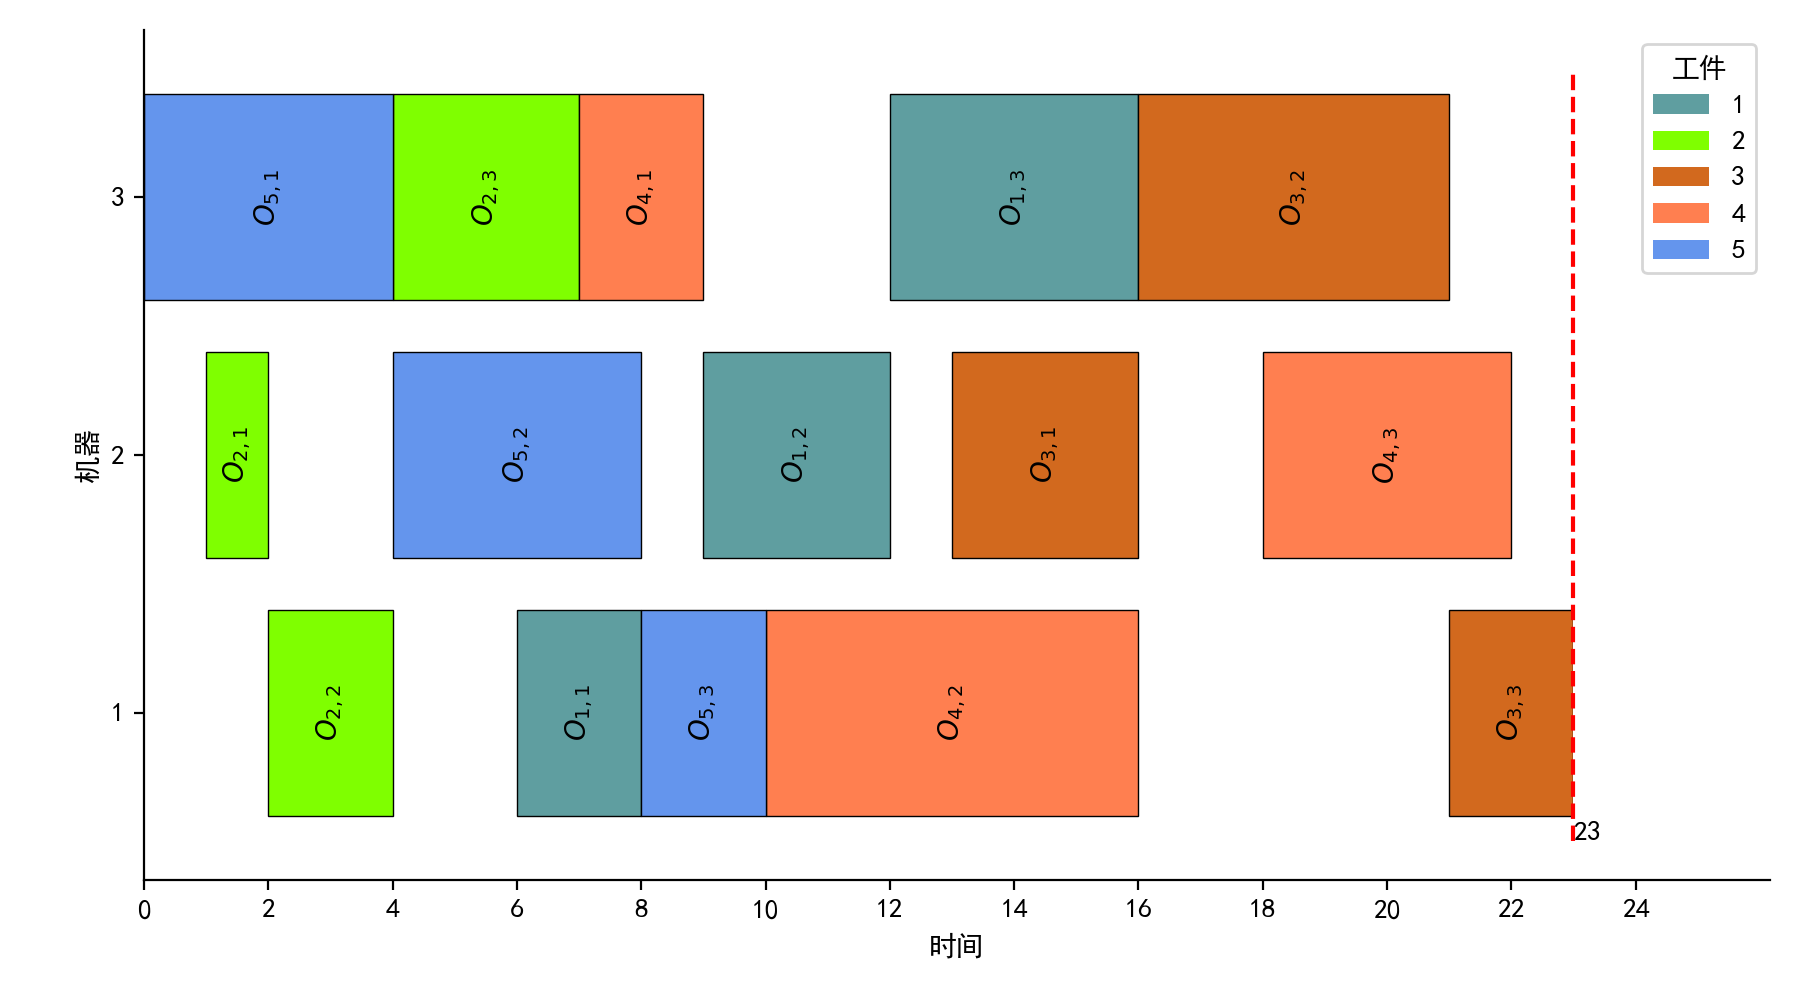
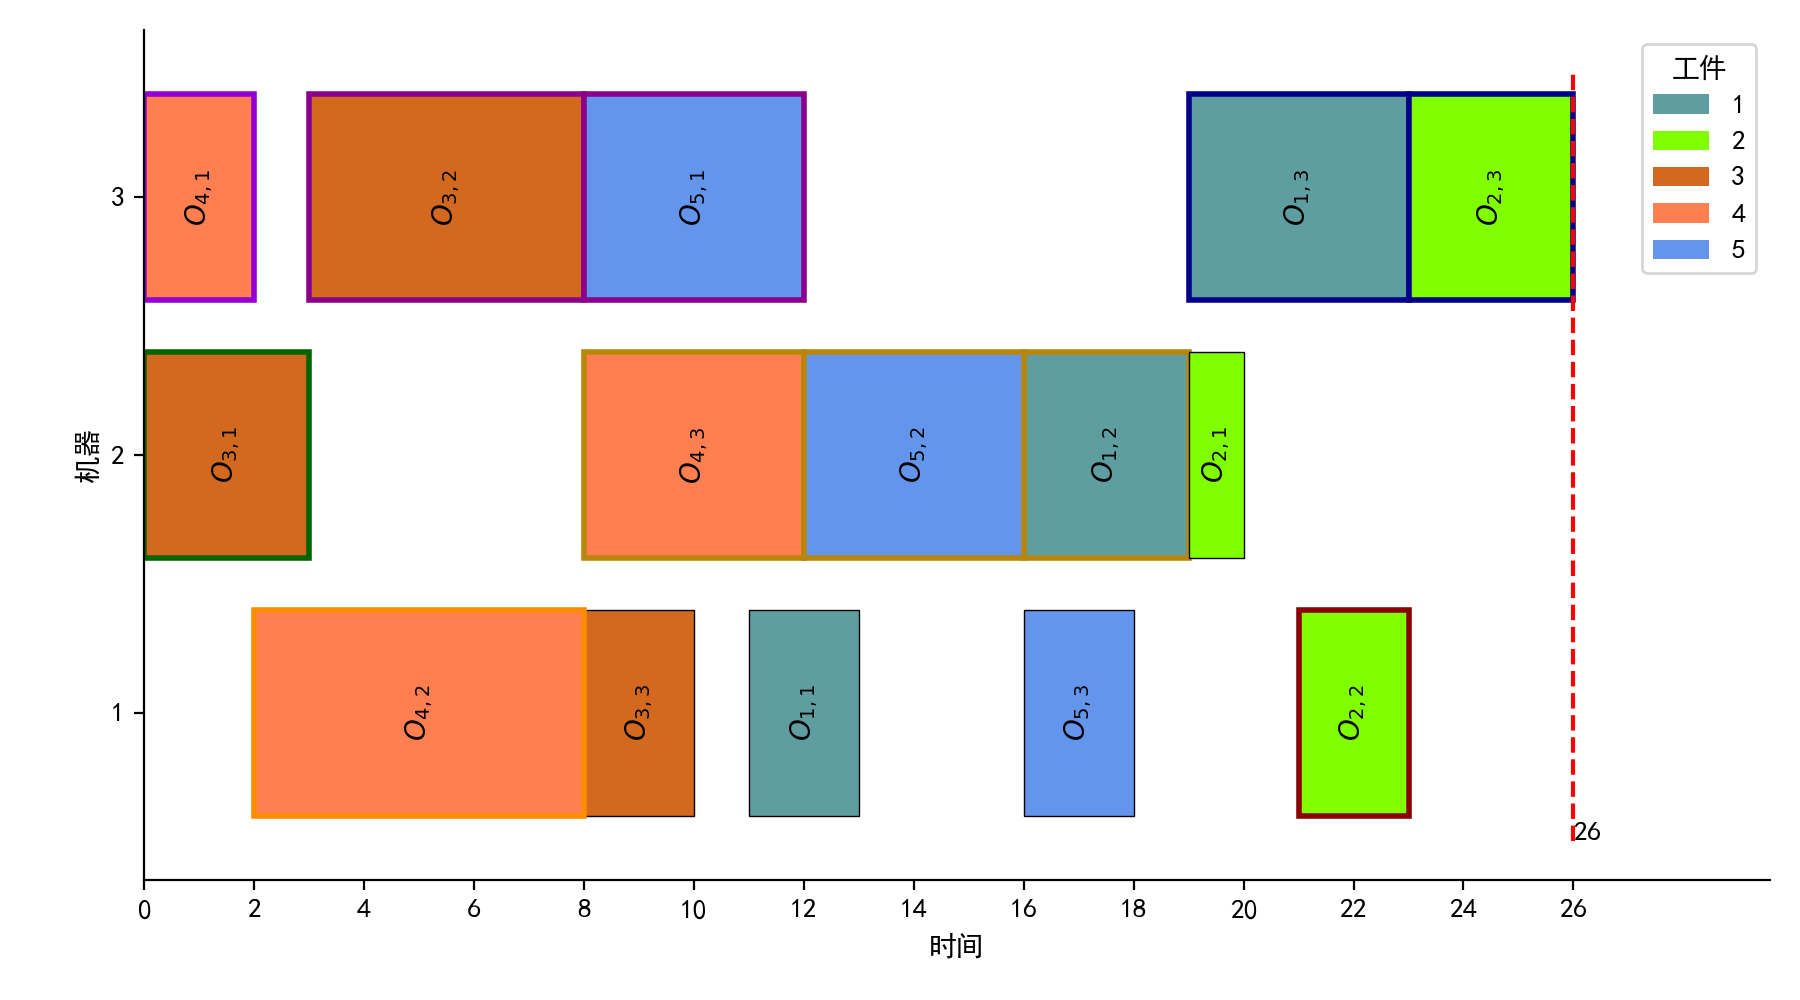
Add file via upload.

diff --git a/src/info.py b/src/info.py
@@ -21,8 +21,10 @@ COLORS_REMOVE.extend([i for i in COLORS if i.startswith('dark')])
 COLORS_REMOVE.extend([i for i in COLORS if i.startswith('light')])
 [COLORS.remove(i) for i in COLORS_REMOVE]
 LEN_COLORS = len(COLORS)
-[COLORS.pop(j - i) for i, j in enumerate(range(11))]
+[COLORS.pop(j - i) for i, j in enumerate(range(12))]
 [COLORS.pop(j - i) for i, j in enumerate([6, ])]
+BLOCK_COLORS = ["darkred", "darkorange", "darkgoldenrod", "darkgreen", "darkblue", "darkmagenta", "darkviolet"]
+LEN_BLOCK_COLORS = len(BLOCK_COLORS)
 plt.rcParams['font.sans-serif'] = ['SimHei']
 plt.rcParams['axes.unicode_minus'] = False
 
@@ -52,7 +54,7 @@ class GanttChart:
                     self.data.loc[:, "Machine"], self.data.loc[:, "End"], self.data.loc[:, "Duration"])):
                 job, operation, machine = job - 1, operation - 1, machine - 1
                 for i, val in enumerate([start, operation, job, machine, end]):
-                    self.schedule.start_number_jme[i] = np.append(self.schedule.start_number_jme[i], val)
+                    self.schedule.sjike[i] = np.append(self.schedule.sjike[i], val)
                 self.schedule.job[job].add_task(machine=machine, duration=duration, name=operation, index=operation)
                 self.schedule.job[job].task[operation].start = start
                 self.schedule.job[job].task[operation].end = end
@@ -62,7 +64,7 @@ class GanttChart:
                     self.schedule.machine[machine].end = end
 
     def key_route(self, index):
-        a = np.argwhere(self.schedule.start_number_jme[4] == self.schedule.makespan)[:, 0]
+        a = np.argwhere(self.schedule.sjike[4] == self.schedule.makespan)[:, 0]
         if a.shape[0] > 1:
             b = np.random.choice(a, 1, replace=False)[0]
         else:
@@ -70,16 +72,16 @@ class GanttChart:
         if b not in index:
             index.append(b)
         while True:
-            c = self.schedule.start_number_jme[0][b]
-            d = self.schedule.start_number_jme[2][b]
-            e = self.schedule.start_number_jme[3][b]
+            c = self.schedule.sjike[0][b]
+            d = self.schedule.sjike[2][b]
+            e = self.schedule.sjike[3][b]
             try:
-                tmp = self.schedule.start_number_jme[4][self.schedule.job[d].index_list]
+                tmp = self.schedule.sjike[4][self.schedule.job[d].index_list]
                 f = self.schedule.job[d].index_list[np.argwhere(tmp == c)[:, 0][0]]
             except IndexError:
                 f = None
             try:
-                tmp = self.schedule.start_number_jme[4][self.schedule.machine[e].index_list]
+                tmp = self.schedule.sjike[4][self.schedule.machine[e].index_list]
                 g = self.schedule.machine[e].index_list[np.argwhere(tmp == c)[:, 0][0]]
             except IndexError:
                 g = None
@@ -104,27 +106,27 @@ class GanttChart:
         index = []
         for i in range(n):
             index = self.key_route(index)
-        index_start = self.schedule.start_number_jme[0][index]
+        index_start = self.schedule.sjike[0][index]
         index = [index[i] for i in np.argsort(-index_start)]
-        a = self.schedule.start_number_jme[3][index]
+        a = self.schedule.sjike[3][index]
         b = set(a)
         c = 0
         block = {}
         for i in b:
             block[c] = np.array([], dtype=int)
             d = np.argwhere(a == i)[:, 0]
-            start = self.schedule.start_number_jme[0][[index[j] for j in d]].tolist()
+            start = self.schedule.sjike[0][[index[j] for j in d]].tolist()
             for cur, j in enumerate(d):
                 g = index[j]
                 try:
-                    end = self.schedule.start_number_jme[4][g]
+                    end = self.schedule.sjike[4][g]
                     start.index(end)
                 except ValueError:
                     if cur != 0:
                         c += 1
                         block[c] = np.array([], dtype=int)
-                self.schedule.job[self.schedule.start_number_jme[2][g]].task[
-                    self.schedule.start_number_jme[1][g]].block = c
+                self.schedule.job[self.schedule.sjike[2][g]].task[
+                    self.schedule.sjike[1][g]].block = c
                 block[c] = np.append(block[c], g)
             c += 1
         return block
@@ -134,6 +136,7 @@ class GanttChart:
                         with_operation=True, with_start_end=False, show=False):
         if random_colors:
             random.shuffle(COLORS)
+        self.key_block()
         plt.figure(figsize=[fig_width, fig_height])
         plt.yticks(range([self.schedule.m, self.schedule.n][y_based]),
                    range(1, [self.schedule.m, self.schedule.n][y_based] + 1))
@@ -151,10 +154,13 @@ class GanttChart:
                 y = y_values[y_based]
                 width = task.end - task.start
                 left = [task.start, self.schedule.makespan - task.end][self.schedule.direction]
+                edgecolor, linewidth = "black", 0.5
+                if task.block is not None:
+                    edgecolor, linewidth = BLOCK_COLORS[task.block % LEN_BLOCK_COLORS], 2
                 plt.barh(
                     y=y, width=width,
-                    left=left, color=COLORS[(y_values[y_based - 1] + 1) % LEN_COLORS],
-                    edgecolor="black", linewidth=0.5,
+                    left=left, color=COLORS[y_values[y_based - 1] % LEN_COLORS],
+                    edgecolor=edgecolor, linewidth=linewidth,
                 )
                 if with_operation:
                     if y_based == 0:
@@ -184,7 +190,7 @@ class GanttChart:
                         )
         if y_based == 0:
             for job in self.schedule.job.values():
-                plt.barh(0, 0, color=COLORS[(job.index + 1) % LEN_COLORS], label=job.index + 1)
+                plt.barh(0, 0, color=COLORS[job.index % LEN_COLORS], label=job.index + 1)
             plt.barh(y=0, width=self.schedule.makespan / scale_more, left=self.schedule.makespan, color="white")
             if lang == 0:
                 title = r"${Job}$"
@@ -193,7 +199,7 @@ class GanttChart:
             plt.legend(loc="best", title=title)
         if y_based == 1:
             for machine in self.schedule.machine.values():
-                plt.barh(0, 0, color=COLORS[(machine.index + 1) % LEN_COLORS], label=machine.index + 1)
+                plt.barh(0, 0, color=COLORS[machine.index % LEN_COLORS], label=machine.index + 1)
             plt.barh(y=0, width=self.schedule.makespan / scale_more, left=self.schedule.makespan, color="white")
             if lang == 0:
                 title = r"${Machine}$"
@@ -295,14 +301,14 @@ class Info(GanttChart):
             std_direction = Utils.direction()
         if self.schedule.direction == 0:
             if std_direction == 0:
-                index = np.argsort(self.schedule.start_number_jme[0])
+                index = np.argsort(self.schedule.sjike[0])
             else:
-                index = np.argsort(-self.schedule.start_number_jme[0])[::-1]
+                index = np.argsort(-self.schedule.sjike[0])[::-1]
         else:
             if std_direction == 0:
-                index = np.argsort(self.schedule.start_number_jme[0])[::-1]
+                index = np.argsort(self.schedule.sjike[0])[::-1]
             else:
-                index = np.argsort(-self.schedule.start_number_jme[0])
+                index = np.argsort(-self.schedule.sjike[0])
         self.code = self.code[index]
         for i in self.schedule.job.keys():
             self.schedule.job[i].nd = 0
@@ -323,7 +329,7 @@ class Info(GanttChart):
                 self.schedule.job[i].index_list[j] = g
                 self.schedule.machine[k].index_list.append(g)
                 for u, v in enumerate([self.schedule.job[i].task[j].start, j, i, k, self.schedule.job[i].task[j].end]):
-                    self.schedule.start_number_jme[u][g] = v
+                    self.schedule.sjike[u][g] = v
                 self.schedule.job[i].nd += 1
         except KeyError:
             code = self.schedule.trans_random_key2operation_based(self.code)
@@ -340,7 +346,7 @@ class Info(GanttChart):
                 self.schedule.job[i].index_list[j] = g
                 self.schedule.machine[k].index_list.append(g)
                 for u, v in enumerate([self.schedule.job[i].task[j].start, j, i, k, self.schedule.job[i].task[j].end]):
-                    self.schedule.start_number_jme[u][g] = v
+                    self.schedule.sjike[u][g] = v
                 self.schedule.job[i].nd += 1
 
     def std_code_machine_based(self):
@@ -405,7 +411,7 @@ class Info(GanttChart):
         left_a, right_b = range(a), range(b + 1, self.schedule.length)
         left_b_a = np.hstack([right_b, left_a])
         middle1, middle2 = code1[r_a_b], code2[r_a_b]
-        number1, number2 = self.schedule.start_number_jme[1][r_a_b], info.schedule.start_number_jme[1][r_a_b]
+        number1, number2 = self.schedule.sjike[1][r_a_b], info.schedule.sjike[1][r_a_b]
         left1, left2 = code1[left_a], code2[left_a]
         right1, right2 = code1[right_b], code2[right_b]
         cycle1, cycle2 = np.hstack([right1, left1, middle1]), np.hstack([right2, left2, middle2])
@@ -432,8 +438,8 @@ class Info(GanttChart):
     def ga_crossover_sequence_pmx(self, info):
         code1 = deepcopy(self.code)
         code2 = deepcopy(info.code)
-        number1 = self.schedule.start_number_jme[1]
-        number2 = info.schedule.start_number_jme[1]
+        number1 = self.schedule.sjike[1]
+        number2 = info.schedule.sjike[1]
         a, b = np.random.choice(range(1, self.schedule.length - 1), 2, replace=False)
         if a > b:
             a, b = b, a
@@ -668,7 +674,7 @@ class Info(GanttChart):
             for g in j:
                 if np.random.random() < 0.5:
                     try:
-                        a, b = self.schedule.start_number_jme[2][g], self.schedule.start_number_jme[1][g]
+                        a, b = self.schedule.sjike[2][g], self.schedule.sjike[1][g]
                         c = [v for v in self.schedule.job[a].task[b].machine if v != mac[a][b]]
                         mac[a][b] = np.random.choice(c, 1, replace=False)[0]
                     except ValueError:

diff --git a/src/shop/schedule.py b/src/shop/schedule.py
@@ -12,11 +12,10 @@ class Schedule(Code):  # 调度资源融合类
         self.best_known = None  # 已知下界值
         self.time_unit = 1  # 加工时间单位
         self.direction = 0  # 解码用：正向时间表、反向时间表（仅Jsp, Fjsp）
-        self.with_key_block = False  # 绘制甘特图用：是否带关键块
         # 找关键路径用：加工开始时间、加工任务（工序）索引、工件索引、机器索引、加工完成时间
-        self.start_number_jme = {0: np.zeros(self.length), 1: np.zeros(self.length, dtype=int),
-                                 2: np.zeros(self.length, dtype=int), 3: np.zeros(self.length, dtype=int),
-                                 4: np.zeros(self.length)}
+        self.sjike = {0: np.zeros(self.length), 1: np.zeros(self.length, dtype=int),
+                      2: np.zeros(self.length, dtype=int), 3: np.zeros(self.length, dtype=int),
+                      4: np.zeros(self.length)}
 
     def clear(self):  # 解码前要进行清空, 方便快速地进行下一次解码
         for i in self.job.keys():
@@ -24,10 +23,9 @@ class Schedule(Code):  # 调度资源融合类
         for i in self.machine.keys():
             self.machine[i].clear()
         self.direction = 0
-        self.with_key_block = False
-        self.start_number_jme = {0: np.zeros(self.length), 1: np.zeros(self.length, dtype=int),
-                                 2: np.zeros(self.length, dtype=int), 3: np.zeros(self.length, dtype=int),
-                                 4: np.zeros(self.length)}
+        self.sjike = {0: np.zeros(self.length), 1: np.zeros(self.length, dtype=int),
+                      2: np.zeros(self.length, dtype=int), 3: np.zeros(self.length, dtype=int),
+                      4: np.zeros(self.length)}
 
     @property
     def n(self):  # 工件数量
@@ -75,22 +73,22 @@ class Schedule(Code):  # 调度资源融合类
             index = self.n
         self.job[index] = Job(index, due_date, name)
 
-    def save_start_number_jme(self, i, j, k, g):  # 保存信息: 工件索引、 加工任务（工序）索引、机器索引
+    def save_sjike(self, i, j, k, g):  # 保存信息: 加工开始时间、加工任务（工序）索引、工件索引、机器索引、加工完成时间
         for u, v in enumerate([self.job[i].task[j].start, j, i, k, self.job[i].task[j].end]):
-            self.start_number_jme[u][g] = v
+            self.sjike[u][g] = v
 
     def update_saved_start_end(self, i, j, g):  # 更新信息: 工件索引、 加工任务（工序）索引、基因座位置
         try:
-            self.start_number_jme[0][g] = self.job[i].task[j].start
-            self.start_number_jme[4][g] = self.job[i].task[j].end
+            self.sjike[0][g] = self.job[i].task[j].start
+            self.sjike[4][g] = self.job[i].task[j].end
         except TypeError:
             pass
 
-    def save_update_decode(self, i, j, k, g):  # 解码用: 保存更新信息，工件索引、 加工任务（工序）索引、机器索引、基因座位置
+    def save_update_decode(self, i, j, k, g):  # 解码用: 保存更新信息
         self.job[i].nd += 1
         self.job[i].index_list[j] = g
         self.machine[k].index_list.append(g)
-        self.save_start_number_jme(i, j, k, g)
+        self.save_sjike(i, j, k, g)
 
     def decode_update_machine_idle(self, i, j, k, r, early_start):  # 解码用：更新机器空闲时间
         if self.machine[k].idle[1][r] - self.job[i].task[j].end > 0:  # 添加空闲时间段
@@ -222,7 +220,7 @@ class Schedule(Code):  # 调度资源融合类
                 k = mac[i][j]
                 p = self.job[i].task[j].duration[self.job[i].task[j].machine.index(k)]
             self.constrain_limited_wait_release_job(i, j, k, p)
-            self.decode_common(i, j, k, p, j_pre, save=False)
+            self.decode_common(i, j, k, p, j_pre, g=self.job[i].index_list[j], save=False)
 
     def constrain_limited_wait(self, i, index, mac=None):  # 等待时间有限约束
         for cursor, (j, j_next) in enumerate(zip(index[1:], index[:-1])):  # index为工序索引

diff --git a/src/shop/jsp.py b/src/shop/jsp.py
@@ -11,7 +11,6 @@ class Jsp(Schedule, RuleJsp):
 
     def decode(self, code, direction=None):
         self.clear()
-        self.with_key_block = True
         if direction not in [0, 1]:
             self.direction = Utils.direction()
         else:
@@ -46,6 +45,7 @@ class Jsp(Schedule, RuleJsp):
         self.clear()
         index = [0 for _ in self.machine.keys()]
         status = [False] * self.m
+        g = 0
         while self.any_task_not_done():
             while True:
                 for k in range(self.m):
@@ -74,8 +74,16 @@ class Jsp(Schedule, RuleJsp):
                     f1 = 0
                 if self.job[i].task[j].start is None and f1 is not None:
                     p = self.job[i].task[j].duration
-                    self.decode_common(i, j, k, p, j - 1)
+                    self.decode_common(i, j, k, p, j - 1, g=g)
                     self.decode_add_limited_wait(i, j, j)
+                    g += 1
             for k in range(self.m):
                 index[k] = 0
         return Info(self, code)
+
+    def decode_machine_based_limited_wait(self, code):
+        info = self.decode_machine_based(code)
+        info.std_code_machine_based()
+        info2 = self.decode_machine_based(info.code)
+        info = info if info.schedule.makespan < info2.schedule.makespan else info2
+        return info

diff --git a/test_decode.py b/test_decode.py
@@ -8,15 +8,23 @@ def main(instance="example"):
     b = Utils.load_text("./src/data/limited_wait_jsp/%s.txt" % instance)
     c = Utils.string2data_wait(b, p, int, time_unit)
     problem = Utils.create_schedule(Jsp, n, m, p, tech, proc, limited_wait=c, time_unit=time_unit)
-    code = problem.mrwt()
-    print(code, "# code")
-    solution = problem.decode_limited_wait(code)
+    """基于工序的编码"""
+    # code = problem.spt()
+    # print(code, "# code")
+    # solution = problem.decode(code)
+    # solution = problem.decode_limited_wait(code)
+    """基于机器的编码"""
+    code = problem.sequence_machine_based(n, m, problem.job)
+    # solution = problem.decode_machine_based(code)
+    solution = problem.decode_machine_based_limited_wait(code)
+    """解码结果"""
     print(solution.code, "# solution.code")
     print(solution.schedule.direction, "# solution.schedule.direction")
-    print(solution.schedule.makespan, "# makespan")
+    print(solution.schedule.makespan, "# solution.schedule.makespan")
+    print(solution.schedule.sjike, "# solution.schedule.sjike")
     solution.save_gantt_chart_to_csv("./Result/%s.csv" % instance)
     solution.gantt_chart_png("./Result/GanttChart/%s.png" % instance)
 
 
 if __name__ == '__main__':
-    main()
+    main(instance="example")

diff --git a/src/shop/fjsp.py b/src/shop/fjsp.py
@@ -11,7 +11,6 @@ class Fjsp(Schedule):
 
     def decode(self, code, mac, direction=None):
         self.clear()
-        self.with_key_block = True
         if direction not in [0, 1]:
             self.direction = Utils.direction()
         else:
@@ -32,7 +31,6 @@ class Fjsp(Schedule):
 
     def decode_one(self, code, direction=None):
         self.clear()
-        self.with_key_block = True
         if direction not in [0, 1]:
             self.direction = Utils.direction()
         else:
